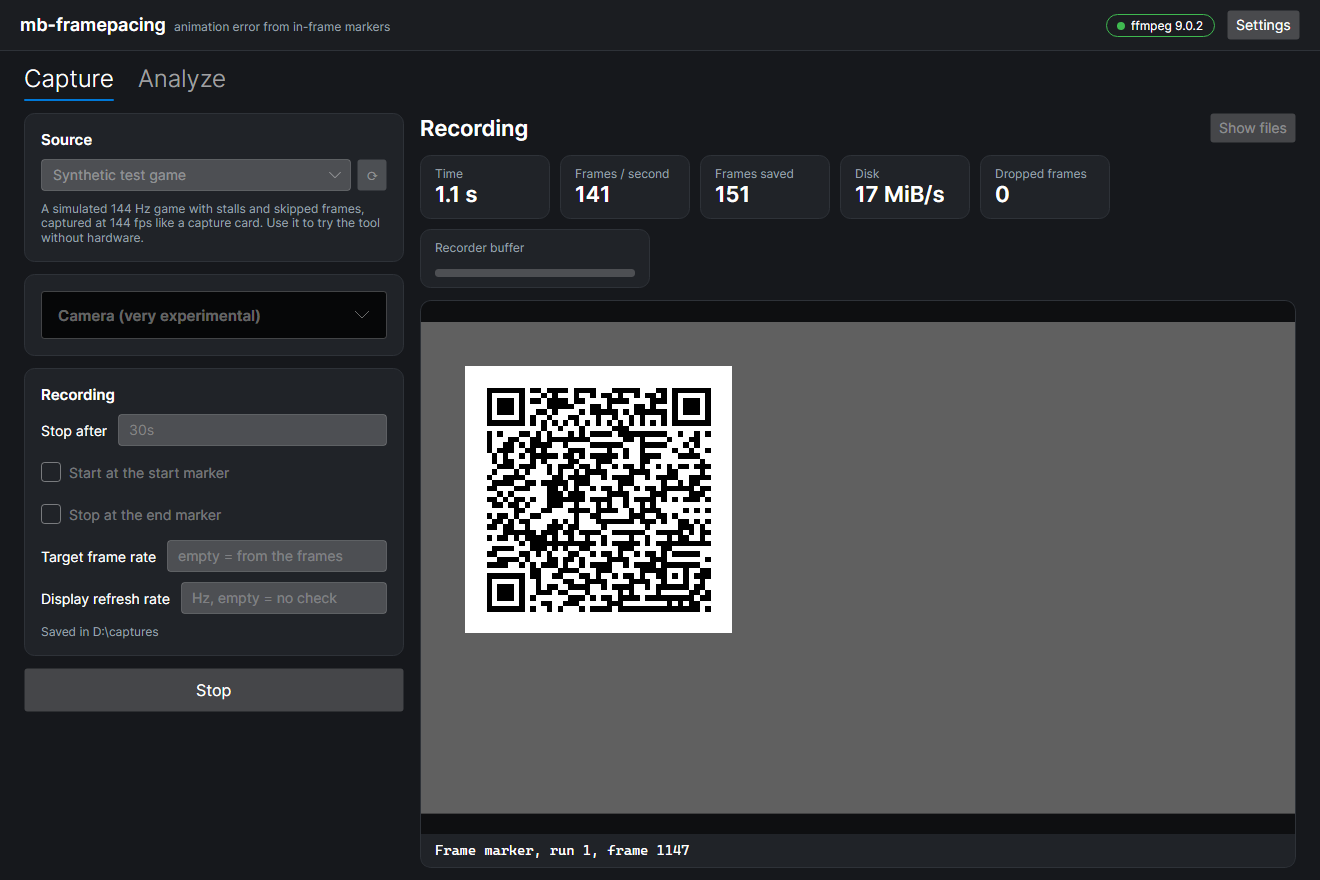
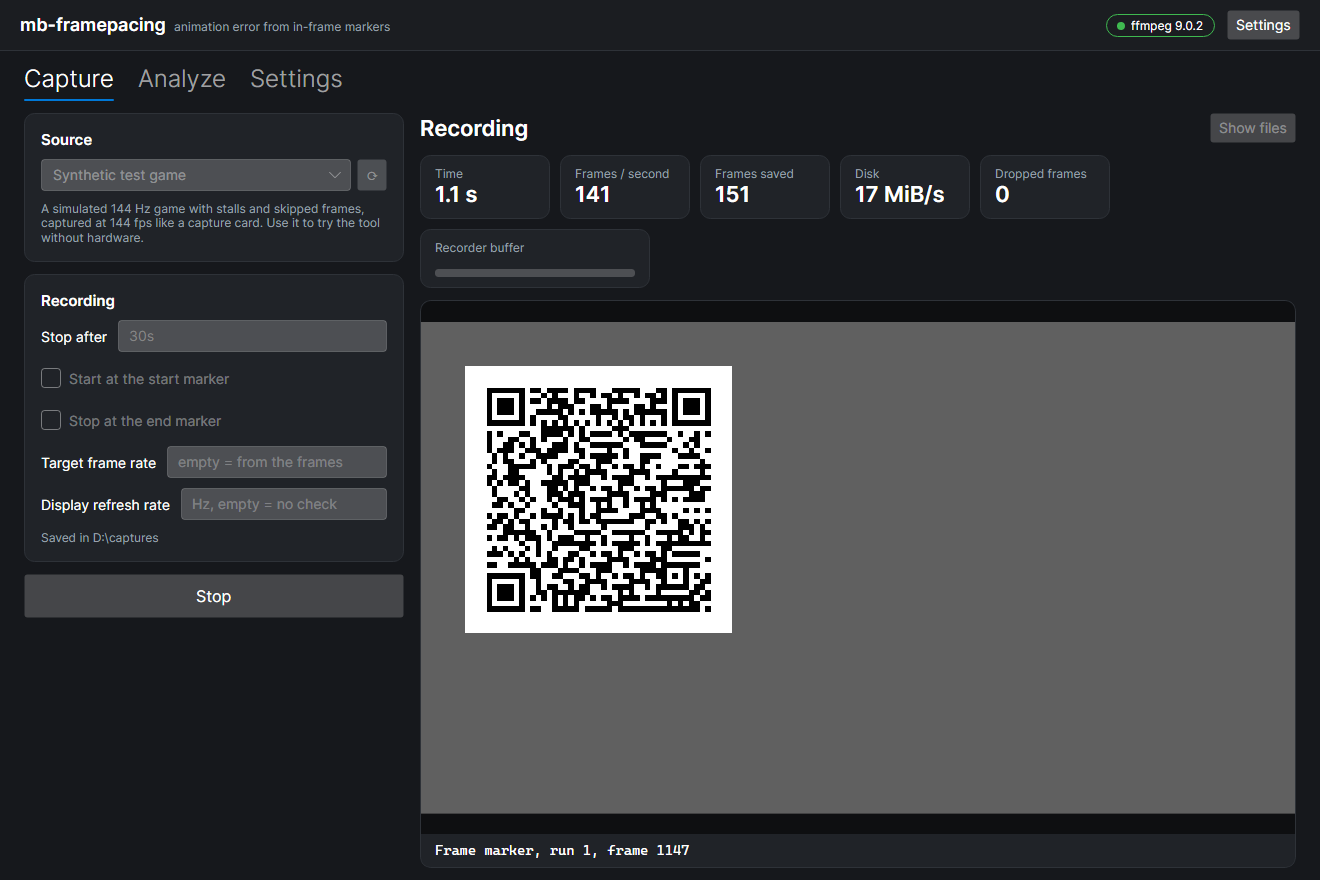
GUI: Settings page; camera hidden unless experimental features are on
- A Settings tab (the header's Settings button opens it): ffmpeg and the
  captures folder with Set up... (the setup dialog) and the configuration
  file, the Enable experimental features switch, and where the
  configuration and GUI settings files are.
- The switch (GuiSettings.ExperimentalFeatures, a new field, off by
  default) shows the Camera card and the synthetic camera source on the
  Capture page. Off, they are hidden and a camera chosen earlier is not
  used for a capture.
- DocImages shows the default (off) and switches it on for the camera
  screenshots; the images are regenerated. doc/camera.md,
  doc/camera-status.md, doc/usage.md and CLAUDE.md say where the switch is.

diff --git a/measure/app/FramePacing.Gui/source/ViewModels/CaptureViewModel.cs b/measure/app/FramePacing.Gui/source/ViewModels/CaptureViewModel.cs
@@ -9,6 +9,7 @@
 //****************************************************************************************************************************************************
 
 using System;
+using System.Collections.Generic;
 using System.Collections.ObjectModel;
 using System.Diagnostics;
 using System.Globalization;
@@ -67,14 +68,42 @@ namespace MB.FramePacing.Gui.ViewModels
       MediaPath = settings.MediaPath ?? string.Empty;
       ImageFpsText = settings.ImageFps ?? "240";
       TimestampFile = settings.TimestampFile ?? string.Empty;
-      foreach (var item in g_otherSources)
+      foreach (var item in OtherSources())
         Devices.Add(item);
       SelectedDevice = Devices.First(d => d.Kind == SourceKind.Synthetic);
+      ExperimentalFeatures = settings.ExperimentalFeatures; // adds the experimental sources
       Camera = new CameraRigViewModel(settings, CameraLibraryDirectory, OpenCameraWizardAsync, token => OpenCameraSource(CurrentChoice(), token));
     }
 
     /// <summary>The camera card (VERY EXPERIMENTAL).</summary>
     public CameraRigViewModel Camera { get; }
+
+    /// <summary>
+    /// Show the experimental features (the Settings page's switch): the camera card and the synthetic camera source. Off, they are hidden and
+    /// a camera chosen earlier is not used.
+    /// </summary>
+    [ObservableProperty]
+    public partial bool ExperimentalFeatures { get; set; }
+
+    /// <summary>Film the screen with the camera rig: only when the experimental features are on.</summary>
+    private bool UseCamera => ExperimentalFeatures && Camera.UseCamera;
+
+    partial void OnExperimentalFeaturesChanged(bool value)
+    {
+      m_settings.ExperimentalFeatures = value;
+      var syntheticCamera = g_otherSources.First(s => s.Kind == SourceKind.SyntheticCamera);
+      if (value && !Devices.Contains(syntheticCamera))
+        Devices.Add(syntheticCamera);
+      else if (!value && Devices.Contains(syntheticCamera))
+      {
+        if (SelectedDevice == syntheticCamera)
+          SelectedDevice = Devices.First(d => d.Kind == SourceKind.Synthetic);
+        Devices.Remove(syntheticCamera);
+      }
+    }
+
+    /// <summary>The sources after the capture devices; the synthetic camera only with the experimental features.</summary>
+    private IEnumerable<DeviceItem> OtherSources() => g_otherSources.Where(s => ExperimentalFeatures || s.Kind != SourceKind.SyntheticCamera);
 
     public event Action<string>? CaptureCompleted;
 
@@ -317,7 +346,7 @@ namespace MB.FramePacing.Gui.ViewModels
         Devices.Clear();
         foreach (var device in devices)
           Devices.Add(new DeviceItem(device.Name, device));
-        foreach (var item in g_otherSources)
+        foreach (var item in OtherSources())
           Devices.Add(item);
       }
       catch (Exception)
@@ -327,7 +356,7 @@ namespace MB.FramePacing.Gui.ViewModels
         FfmpegSummary = "ffmpeg not set up";
         FfmpegToolTip = "Open Settings to set up ffmpeg";
         Devices.Clear();
-        foreach (var item in g_otherSources)
+        foreach (var item in OtherSources())
           Devices.Add(item);
       }
       finally
@@ -416,7 +445,7 @@ namespace MB.FramePacing.Gui.ViewModels
     {
       if (device?.Kind == SourceKind.SyntheticCamera)
       {
-        if (!Camera.UseCamera)
+        if (!UseCamera)
           throw new InvalidOperationException("The synthetic camera needs a camera: press Set up camera... in the Camera card first.");
         var syntheticRig = VerifyRig(new SyntheticCameraSource(CreateSyntheticCamera()), cancellationToken);
         runOptions = runOptions with { Camera = syntheticRig };
@@ -424,7 +453,7 @@ namespace MB.FramePacing.Gui.ViewModels
       }
 
       var ffmpegOptions = CreateFfmpegOptions(CurrentChoice() with { Source = device ?? Devices[0] }, runOptions.OutputDirectory);
-      if (ffmpegOptions != null && Camera.UseCamera)
+      if (ffmpegOptions != null && UseCamera)
       {
         // EXPERIMENTAL camera capture: check the camera still sees the markers where it was calibrated, then store the rectified zones
         using (var check = FfmpegCaptureSource.Start(ffmpegOptions, TimeSpan.FromSeconds(30)))

diff --git a/measure/app/FramePacing.Gui/source/ViewModels/SettingsViewModel.cs b/measure/app/FramePacing.Gui/source/ViewModels/SettingsViewModel.cs
@@ -1,0 +1,104 @@
+//****************************************************************************************************************************************************
+//* File Description
+//* ----------------
+//* The Settings page: ffmpeg and the captures folder (changed through the setup dialog, stored in the configuration file), the switch for the
+//* experimental features (stored in the GUI settings), and where both files are.
+//*
+//* (c) 2026 Mana Battery
+//* SPDX-License-Identifier: LicenseRef-PolyForm-Perimeter-1.0.1
+//****************************************************************************************************************************************************
+
+using System;
+using System.ComponentModel;
+using System.Threading.Tasks;
+using CommunityToolkit.Mvvm.ComponentModel;
+using CommunityToolkit.Mvvm.Input;
+using MB.FramePacing.Capture;
+
+namespace MB.FramePacing.Gui.ViewModels
+{
+  public sealed partial class SettingsViewModel : ObservableObject
+  {
+    private readonly IDialogService m_dialogs;
+    private readonly CaptureViewModel m_capture;
+    private readonly Func<Task> m_setUp;
+
+    /// <param name="setUp">Opens the setup dialog (ffmpeg and the captures folder) and applies what it saved.</param>
+    public SettingsViewModel(IDialogService dialogs, CaptureViewModel capture, Func<Task> setUp)
+    {
+      m_dialogs = dialogs;
+      m_capture = capture;
+      m_setUp = setUp;
+      m_capture.PropertyChanged += OnCapturePropertyChanged;
+      Refresh();
+    }
+
+    /// <summary>Show the experimental features (camera capture) on the Capture page.</summary>
+    public bool ExperimentalFeatures
+    {
+      get => m_capture.ExperimentalFeatures;
+      set => m_capture.ExperimentalFeatures = value;
+    }
+
+    public string ExperimentalText => CameraRigViewModel.ExperimentalText;
+
+    public string FfmpegSummary => m_capture.FfmpegSummary;
+
+    public bool FfmpegReady => m_capture.FfmpegReady;
+
+    [ObservableProperty]
+    public partial string FfmpegPathText { get; set; } = string.Empty;
+
+    [ObservableProperty]
+    public partial string CaptureDirectoryText { get; set; } = string.Empty;
+
+    [ObservableProperty]
+    public partial string StatusText { get; set; } = string.Empty;
+
+    public string ConfigPath => FramePacingConfig.ResolvePath();
+
+    public string GuiSettingsPath => GuiSettings.FilePath;
+
+    public string Version => MainWindowViewModel.Version;
+
+    /// <summary>Read the configuration file again (after the setup dialog saved it).</summary>
+    public void Refresh()
+    {
+      var config = MainWindowViewModel.SafeLoadConfig();
+      FfmpegPathText = config.FfmpegPath ?? "not set: found on the PATH or in the usual install folders";
+      CaptureDirectoryText = config.CaptureDirectory ?? MainWindowViewModel.DefaultCaptureDirectory;
+    }
+
+    [RelayCommand]
+    private async Task SetUpAsync()
+    {
+      await m_setUp();
+      Refresh();
+    }
+
+    [RelayCommand]
+    private void OpenConfigFile()
+    {
+      try
+      {
+        m_dialogs.OpenFile(FramePacingConfig.EnsureExists());
+        StatusText = string.Empty;
+      }
+      catch (Exception ex)
+      {
+        StatusText = "Could not open the configuration file: " + ex.Message;
+      }
+    }
+
+    private void OnCapturePropertyChanged(object? sender, PropertyChangedEventArgs e)
+    {
+      if (e.PropertyName == nameof(CaptureViewModel.ExperimentalFeatures))
+        OnPropertyChanged(nameof(ExperimentalFeatures));
+      else if (e.PropertyName is nameof(CaptureViewModel.FfmpegSummary) or nameof(CaptureViewModel.FfmpegReady))
+      {
+        OnPropertyChanged(nameof(FfmpegSummary));
+        OnPropertyChanged(nameof(FfmpegReady));
+      }
+    }
+  }
+}

diff --git a/measure/app/FramePacing.Gui/source/ViewModels/MainWindowViewModel.cs b/measure/app/FramePacing.Gui/source/ViewModels/MainWindowViewModel.cs
@@ -22,6 +22,7 @@ namespace MB.FramePacing.Gui.ViewModels
   {
     public const int CaptureTab = 0;
     public const int AnalysisTab = 1;
+    public const int SettingsTab = 2;
 
     private readonly IDialogService m_dialogs;
     private readonly GuiSettings m_settings;
@@ -33,7 +34,8 @@ namespace MB.FramePacing.Gui.ViewModels
       m_settings = settings;
       Capture = new CaptureViewModel(dialogs, settings);
       Analysis = new AnalysisViewModel(dialogs, settings);
-      SelectedTab = settings.SelectedTab is CaptureTab or AnalysisTab ? settings.SelectedTab : CaptureTab;
+      Settings = new SettingsViewModel(dialogs, Capture, () => ShowSetupAsync(firstRun: false));
+      SelectedTab = settings.SelectedTab is CaptureTab or AnalysisTab or SettingsTab ? settings.SelectedTab : CaptureTab;
       Capture.CaptureCompleted += directory =>
       {
         SelectedTab = AnalysisTab;
@@ -68,6 +70,11 @@ namespace MB.FramePacing.Gui.ViewModels
 
     public AnalysisViewModel Analysis { get; }
 
+    public SettingsViewModel Settings { get; }
+
+    /// <summary>Where captures go unless the configuration file names a folder.</summary>
+    public static string DefaultCaptureDirectory => Path.Combine(Environment.GetFolderPath(Environment.SpecialFolder.MyDocuments), "mb-framepacing");
+
     public bool FfmpegReady => Capture.FfmpegReady;
 
     public string FfmpegSummary => Capture.FfmpegSummary;
@@ -99,18 +106,19 @@ namespace MB.FramePacing.Gui.ViewModels
         await ShowSetupAsync(firstRun: true);
     }
 
+    /// <summary>The header's Settings button: the Settings page.</summary>
     [RelayCommand]
-    private Task OpenSettingsAsync() => ShowSetupAsync(firstRun: false);
+    private void OpenSettings() => SelectedTab = SettingsTab;
 
     private async Task ShowSetupAsync(bool firstRun)
     {
-      var defaultCaptures = Path.Combine(Environment.GetFolderPath(Environment.SpecialFolder.MyDocuments), "mb-framepacing");
-      var setup = new SetupViewModel(m_dialogs, SafeLoadConfig(), defaultCaptures, firstRun);
+      var setup = new SetupViewModel(m_dialogs, SafeLoadConfig(), DefaultCaptureDirectory, firstRun);
       if (await m_dialogs.ShowSetupAsync(setup))
         await Capture.RefreshDevicesAsync();
     }
 
-    private static FramePacingConfig SafeLoadConfig()
+    /// <summary>The configuration file, or the defaults when it can not be read.</summary>
+    public static FramePacingConfig SafeLoadConfig()
     {
       try
       {

diff --git a/measure/app/FramePacing.Gui/source/GuiSettings.cs b/measure/app/FramePacing.Gui/source/GuiSettings.cs
@@ -23,6 +23,9 @@ namespace MB.FramePacing.Gui
       "gui-settings.json"
     );
 
+    /// <summary>Where the settings are saved.</summary>
+    public static string FilePath => g_path;
+
     /// <summary>The format this version writes and the newest it reads.</summary>
     public const int CurrentFormatVersion = 1;
 
@@ -50,6 +53,9 @@ namespace MB.FramePacing.Gui
 
     /// <summary>The display refresh rate the user expects, stored with each capture for the analysis to compare with (empty = none).</summary>
     public string? DisplayHz { get; set; }
+
+    /// <summary>Show the experimental features (camera capture). Off: they are hidden and never used.</summary>
+    public bool ExperimentalFeatures { get; set; }
 
     /// <summary>EXPERIMENTAL camera capture: film the screen with the calibrated rig, its file, a slow motion clip's recorded fps.</summary>
     public bool UseCamera { get; set; }

diff --git a/measure/app/FramePacing.Gui/source/Views/SettingsView.axaml.cs b/measure/app/FramePacing.Gui/source/Views/SettingsView.axaml.cs
@@ -1,0 +1,21 @@
+//****************************************************************************************************************************************************
+//* File Description
+//* ----------------
+//* Settings page view.
+//*
+//* (c) 2026 Mana Battery
+//* SPDX-License-Identifier: LicenseRef-PolyForm-Perimeter-1.0.1
+//****************************************************************************************************************************************************
+
+using Avalonia.Controls;
+
+namespace MB.FramePacing.Gui.Views
+{
+  public partial class SettingsView : UserControl
+  {
+    public SettingsView()
+    {
+      InitializeComponent();
+    }
+  }
+}

diff --git a/measure/tools/DocImages/source/Program.cs b/measure/tools/DocImages/source/Program.cs
@@ -150,6 +150,8 @@ namespace MB.FramePacing.DocImages
       // Captures and saved cameras go to the automation folder, never to the example path shown in the screenshots
       capture.OutputRoot = MB.FramePacing.Gui.Program.OutputRoot!;
       viewModel.SelectedTab = MainWindowViewModel.CaptureTab;
+      // The camera is an experimental feature: the Settings page's switch shows it (the other screenshots show the default, off)
+      viewModel.Settings.ExperimentalFeatures = true;
       capture.SelectedDevice = capture.Devices.First(d => d.Kind == SourceKind.SyntheticCamera);
 
       var wizard = capture.CreateCameraWizard();

diff --git a/doc/usage.md b/doc/usage.md
@@ -167,7 +167,7 @@ or use **Browse...**, **Target fps** and **Analyze** on the Analyze page.
 
 | Symptom                                          | What to do                                                                                                                                                                                                                                                  |
 | ------------------------------------------------ | ----------------------------------------------------------------------------------------------------------------------------------------------------------------------------------------------------------------------------------------------------------- |
-| "ffmpeg not found"                               | Install it (platform guide, step 1). If it is not on PATH, point to it: GUI **Settings**, `mb-framepacing config --set-ffmpeg <path>`, or `--ffmpeg <path>`.                                                                                                |
+| "ffmpeg not found"                               | Install it (platform guide, step 1). If it is not on PATH, point to it: GUI **Settings → Set up...**, `mb-framepacing config --set-ffmpeg <path>`, or `--ffmpeg <path>`.                                                                                    |
 | "No marker seen yet" / many undecodable captures | The marker must be drawn **last** (after post effects, UI and upscaling), unblended, pure black and white, with HDR off. Check it is at least 3 stored pixels per module after `--scale`; avoid MJPEG if the card has another format.                       |
 | Recording never starts with the start marker     | The start marker must appear whole in at least one captured frame (every frame is checked). Show it for about three capture frames (100 ms at 30 fps) so a dropped or torn capture cannot lose it, and check that the preview shows "SequenceStart marker". |
 | Frames dropped by the recorder                   | The disk is too slow: store only the marker (`--roi auto`), use a smaller `--scale`, or a faster SSD. `selftest --fps <rate> --size <size>` shows what this machine sustains.                                                                               |

diff --git a/doc/camera-status.md b/doc/camera-status.md
@@ -28,6 +28,7 @@ labelled "very experimental" until the validation below has been done.
 | Camera analysis (scanout delay, camera tears, second zone only)    | Implemented                              | Unit tests against the synthetic ground truth                      |
 | Refresh rate calculated per run (`RefreshEstimator`), late frames  | Implemented                              | Unit tests, `selftest --camera` (60 Hz found as 16.67 ms)          |
 | GUI camera wizard (shows the camera frames), camera card           | Implemented                              | DocImages (headless); no unit tests for the wizard view model      |
+| GUI: hidden unless Settings → Experimental features is on          | Implemented                              | DocImages (headless: off for the capture page, on for the camera)  |
 | Live UVC cameras (`capture -d <camera> --camera`)                  | Implemented, **never run with a camera** | Same code path as import; never tried with hardware                |
 | Real cameras and displays                                          | **Not validated**                        | Nothing yet                                                        |
 

diff --git a/CLAUDE.md b/CLAUDE.md
@@ -120,6 +120,8 @@ dotnet run --project measure/app/FramePacing/FramePacing.csproj -- selftest --fp
   bottom-left: it checks tearing (capture cards, optional) and times the frames for a camera (required). `RecommendedOrigin(kind, …)`
   places both; there are no other slots.
 - **Camera capture (VERY EXPERIMENTAL, `doc/camera.md`):**
+  - The GUI hides it (the camera card, the synthetic camera source) unless **Settings → Experimental features** is on
+    (`GuiSettings.ExperimentalFeatures`, `CaptureViewModel.ExperimentalFeatures`); switched off, a camera chosen earlier is not used.
   - Every place users meet it says "very experimental": CLI help, the GUI card, `CameraRig.ExperimentalNotice` in rig files and
     analysis warnings, docs. Keep it that way until it is validated with real hardware, and keep `doc/camera-status.md`
     (status, known issues, next steps) current with every camera change.

diff --git a/doc/camera.md b/doc/camera.md
@@ -85,7 +85,8 @@ GUI share it. Replacing or deleting a saved camera keeps the old file in `camera
 
 ### In the GUI: the camera wizard
 
-On the Capture page, open **Camera (very experimental)** and press **Set up camera...**. The wizard has two paths, so its step
+In the GUI the camera is hidden until you switch on **Settings → Experimental features → Enable experimental features**. Then,
+on the Capture page, open **Camera (very experimental)** and press **Set up camera...**. The wizard has two paths, so its step
 count differs:
 
 - **New camera**, 6 steps: Which camera? → Mount → Source → Calibrate → Save → Done.
